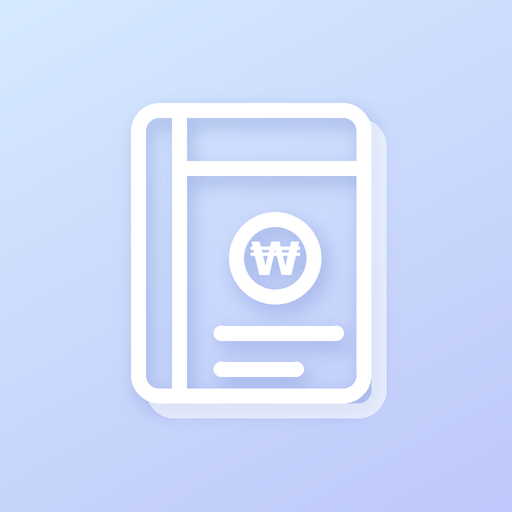
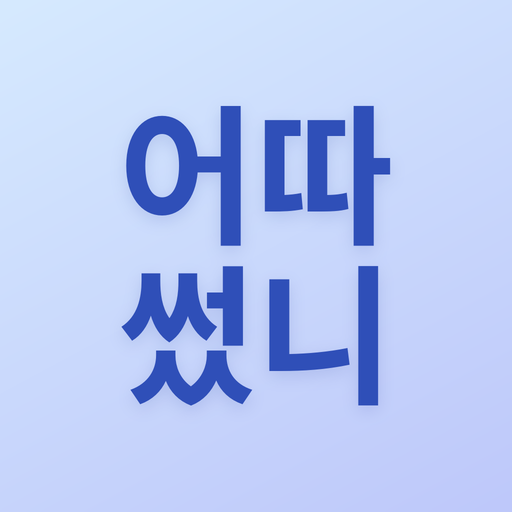
앱 아이콘을 글자형(어따/썼니)으로 변경
Claude-Session: https://claude.ai/code/session_011Z4eDyh1oUPzLSeBn4g8tn

Changed region(s): [[0.2188, 0.1875, 0.7812, 0.8438]]

diff --git a/index.html b/index.html
@@ -6,8 +6,8 @@
 <meta name="apple-mobile-web-app-capable" content="yes">
 <meta name="apple-mobile-web-app-title" content="어따썼니">
 <meta name="apple-mobile-web-app-status-bar-style" content="default">
-<link rel="apple-touch-icon" href="apple-touch-icon.png?v=3">
-<link rel="icon" type="image/png" href="icon-512.png?v=3">
+<link rel="apple-touch-icon" href="apple-touch-icon.png?v=4">
+<link rel="icon" type="image/png" href="icon-512.png?v=4">
 <title>어따썼니</title>
 <link rel="preconnect" href="https://fonts.googleapis.com">
 <link href="https://fonts.googleapis.com/css2?family=Archivo:wdth,wght@100..125,400..800&family=Noto+Sans+KR:wght@400;600;800&display=swap" rel="stylesheet">
